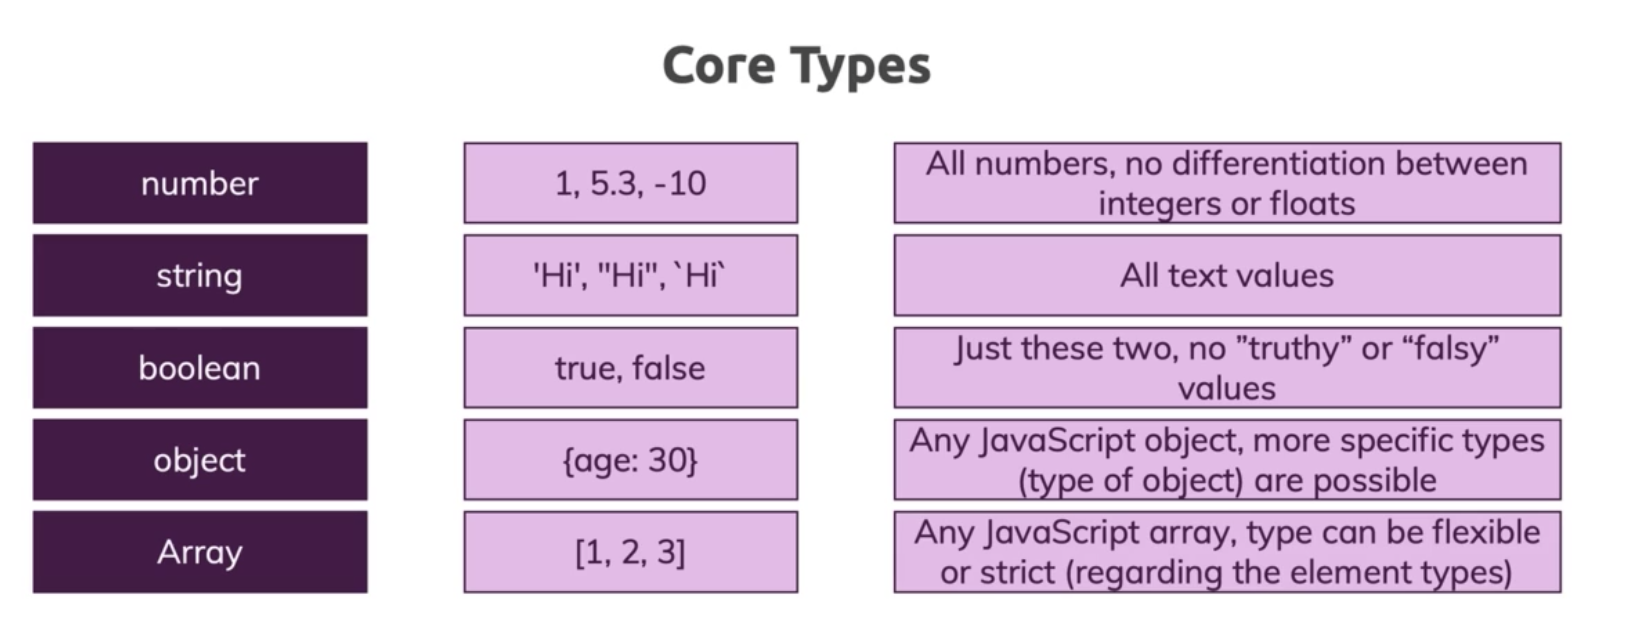
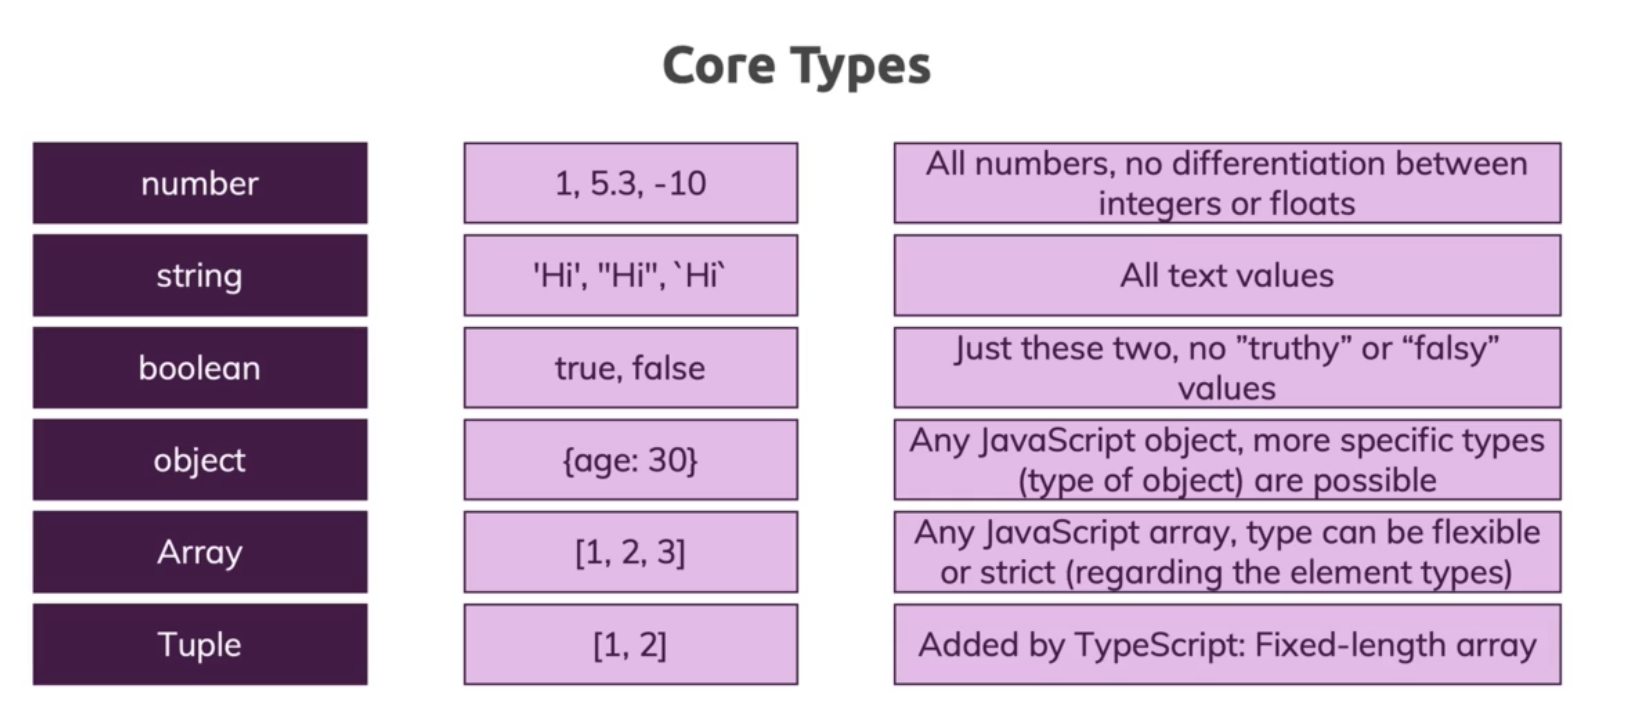
tuple type example added

diff --git a/language_fundamentals/ts_basics_and_basic_types/tuple_types/app.ts b/language_fundamentals/ts_basics_and_basic_types/tuple_types/app.ts
@@ -1,0 +1,34 @@
+// Tuple type is something which is not present in vanilla JS
+// Tuple type is of fixed length array and of fixed type
+
+const person1 = {
+	name: 'Kunal',
+	age: 29,
+	hobbies: ['Sports', 'Cooking', 'Reading'],
+	role: [2, 'author'], // tuple example, TS inference: role: (string | number)[]
+};
+console.log(person1);
+
+// downside of tuple is we can push more data and switch position of number and string
+person1.role.push('admin');
+person1.role[1] = 10; // this is an issue as we expect string at index 1
+
+// Explicit assignment to solve above problem
+const person2: {
+	name: string;
+	age: number;
+	hobbies: string[];
+	role: [number, string]; // forcing first posiiton to be a number and second to be a string
+} = {
+	name: 'Kunal',
+	age: 29,
+	hobbies: ['Sports', 'Cooking', 'Reading'],
+	role: [2, 'author'], // tuple example, TS inference: role: (string | number)[]
+};
+
+person2.role.push('admin'); // push is allowed on tuple, so we cannot resolve this issue.
+// person2.role[1] = 10; Type 'number' is not assignable to type 'string'.ts(2322)
+
+// length enforcement
+// person2.role = []; Type '[]' is not assignable to type '[number, string]'.
+// person2.role = [1, 'commenter', 'not allowed']; Type '[number, string, string]' is not assignable to type '[number, string]'.

diff --git a/language_fundamentals/ts_basics_and_basic_types/tuple_types/app.js b/language_fundamentals/ts_basics_and_basic_types/tuple_types/app.js
@@ -1,0 +1,24 @@
+// Tuple type is something which is not present in vanilla JS
+// Tuple type is of fixed length array and of fixed type
+var person1 = {
+    name: 'Kunal',
+    age: 29,
+    hobbies: ['Sports', 'Cooking', 'Reading'],
+    role: [2, 'author']
+};
+console.log(person1);
+// downside of tuple is we can push more data and switch position of number and string
+person1.role.push('admin');
+person1.role[1] = 10; // this is an issue as we expect string at index 1
+// Explicit assignment to solve above problem
+var person2 = {
+    name: 'Kunal',
+    age: 29,
+    hobbies: ['Sports', 'Cooking', 'Reading'],
+    role: [2, 'author']
+};
+person2.role.push('admin'); // push is allowed on tuple, so we cannot resolve this issue.
+// person2.role[1] = 10; Type 'number' is not assignable to type 'string'.ts(2322)
+// length enforcement
+// person2.role = []; Type '[]' is not assignable to type '[number, string]'.
+// person2.role = [1, 'commenter', 'not allowed']; Type '[number, string, string]' is not assignable to type '[number, string]'.

diff --git a/language_fundamentals/ts_basics_and_basic_types/tuple_types/index.html b/language_fundamentals/ts_basics_and_basic_types/tuple_types/index.html
@@ -1,0 +1,13 @@
+<!DOCTYPE html>
+<html lang="en">
+<head>
+  <meta charset="UTF-8">
+  <meta name="viewport" content="width=device-width, initial-scale=1.0">
+  <meta http-equiv="X-UA-Compatible" content="ie=edge">
+  <title>Understanding TypeScript</title>
+  <script src="app.js" defer></script>
+</head>
+<body>
+  
+</body>
+</html>

diff --git a/README.md b/README.md
@@ -31,4 +31,5 @@ I have created this repo as a part of self-learning and development activity by 
 -   [Working with number, strings, and booleans](https://github.com/kunalashar25/learn-typescript/blob/main/language_fundamentals/ts_basics_and_basic_types/working_with_number_strings_booleans)
 -   [Object Types](https://github.com/kunalashar25/learn-typescript/blob/main/language_fundamentals/ts_basics_and_basic_types/object_types)
 -   [Array Types](https://github.com/kunalashar25/learn-typescript/blob/main/language_fundamentals/ts_basics_and_basic_types/array_types)
+-   [Tuple Types](https://github.com/kunalashar25/learn-typescript/blob/main/language_fundamentals/ts_basics_and_basic_types/tuple_types)
 </details>
